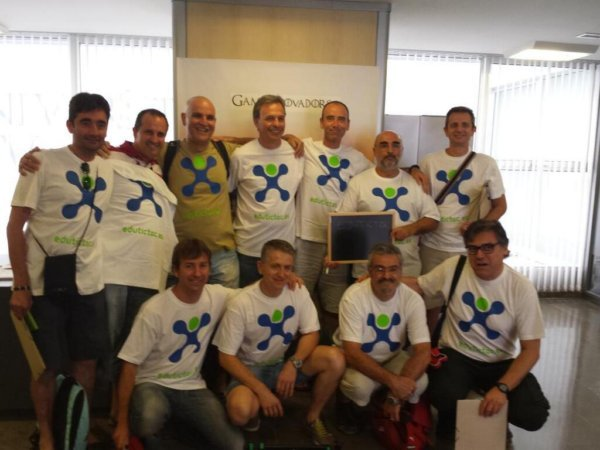
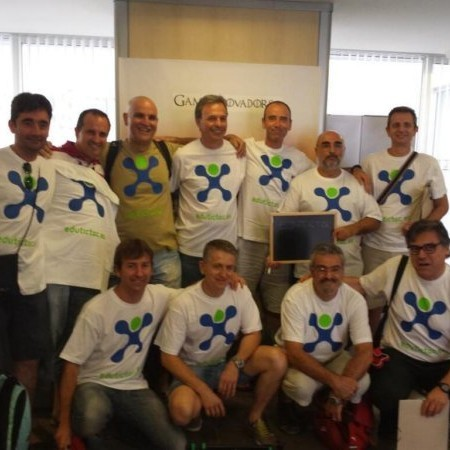
Imatges segona galeria redimensionades

diff --git a/index.html b/index.html
@@ -391,6 +391,7 @@
     <!-- Gallery -->
     <div class=" mbr-gallery-layout-default">
         <div>
+          <!-- Proposta de fotos, revisables i millorables, caldria recopilar-ne més i optimitzar l'enquadre, de moment estan redimensionades -->
             <div class="row mbr-gallery-row no-gutter">
                 <div class="col-lg-3 col-md-4 col-sm-6 col-xs-12 mbr-gallery-item">
                     <a href="#lb-gallery1-82" data-slide-to="0" data-toggle="modal">
@@ -399,10 +400,9 @@
                     </a>
                 </div><div class="col-lg-3 col-md-4 col-sm-6 col-xs-12 mbr-gallery-item">
                     <a href="#lb-gallery1-82" data-slide-to="1" data-toggle="modal">
-                        <img alt="" src="assets/images/cho_oyu.png">
+                        <img alt="" src="assets/images/edutictac_grup_2_1.jpg">
                         <span class="icon glyphicon glyphicon-zoom-in"></span>
                     </a>
-                    <!-- Volia afegir dos fotos més però pareix que el tamany no és l'adecuat ho intentaré solucionar més endavant -->
                 </div><div class="col-lg-3 col-md-4 col-sm-6 col-xs-12 mbr-gallery-item">
                     <a href="#lb-gallery1-82" data-slide-to="2" data-toggle="modal">
                         <img alt="" src="assets/images/edutictac_grup_1.jpg">
@@ -410,7 +410,7 @@
                     </a>
                 </div><div class="col-lg-3 col-md-4 col-sm-6 col-xs-12 mbr-gallery-item">
                     <a href="#lb-gallery1-82" data-slide-to="3" data-toggle="modal">
-                        <img alt="" src="assets/images/edutictac_grup_2.jpg">
+                        <img alt="" src="assets/images/edutictac_grup_3.jpeg">
                         <span class="icon glyphicon glyphicon-zoom-in"></span>
                     </a>
                 </div>
@@ -431,11 +431,11 @@
                         <div class="item">
                             <img alt="" src="assets/images/edutictac_grup.jpeg">
                         </div><div class="item">
-                            <img alt="" src="assets/images/cho_oyu.png">
+                            <img alt="" src="assets/images/edutictac_grup_2_1.jpg">
                         </div><div class="item">
-                            <img alt="" src="assets/images/edutictac_grup.jpeg">
+                            <img alt="" src="assets/images/edutictac_grup_1.jpg">
                         </div><div class="item active">
-                            <img alt="" src="assets/images/cho_oyu.png">
+                            <img alt="" src="assets/images/edutictac_grup_3.jpeg">
                         </div>
                     </div>
                     <a class="left carousel-control" role="button" data-slide="prev" href="#lb-gallery1-82">
